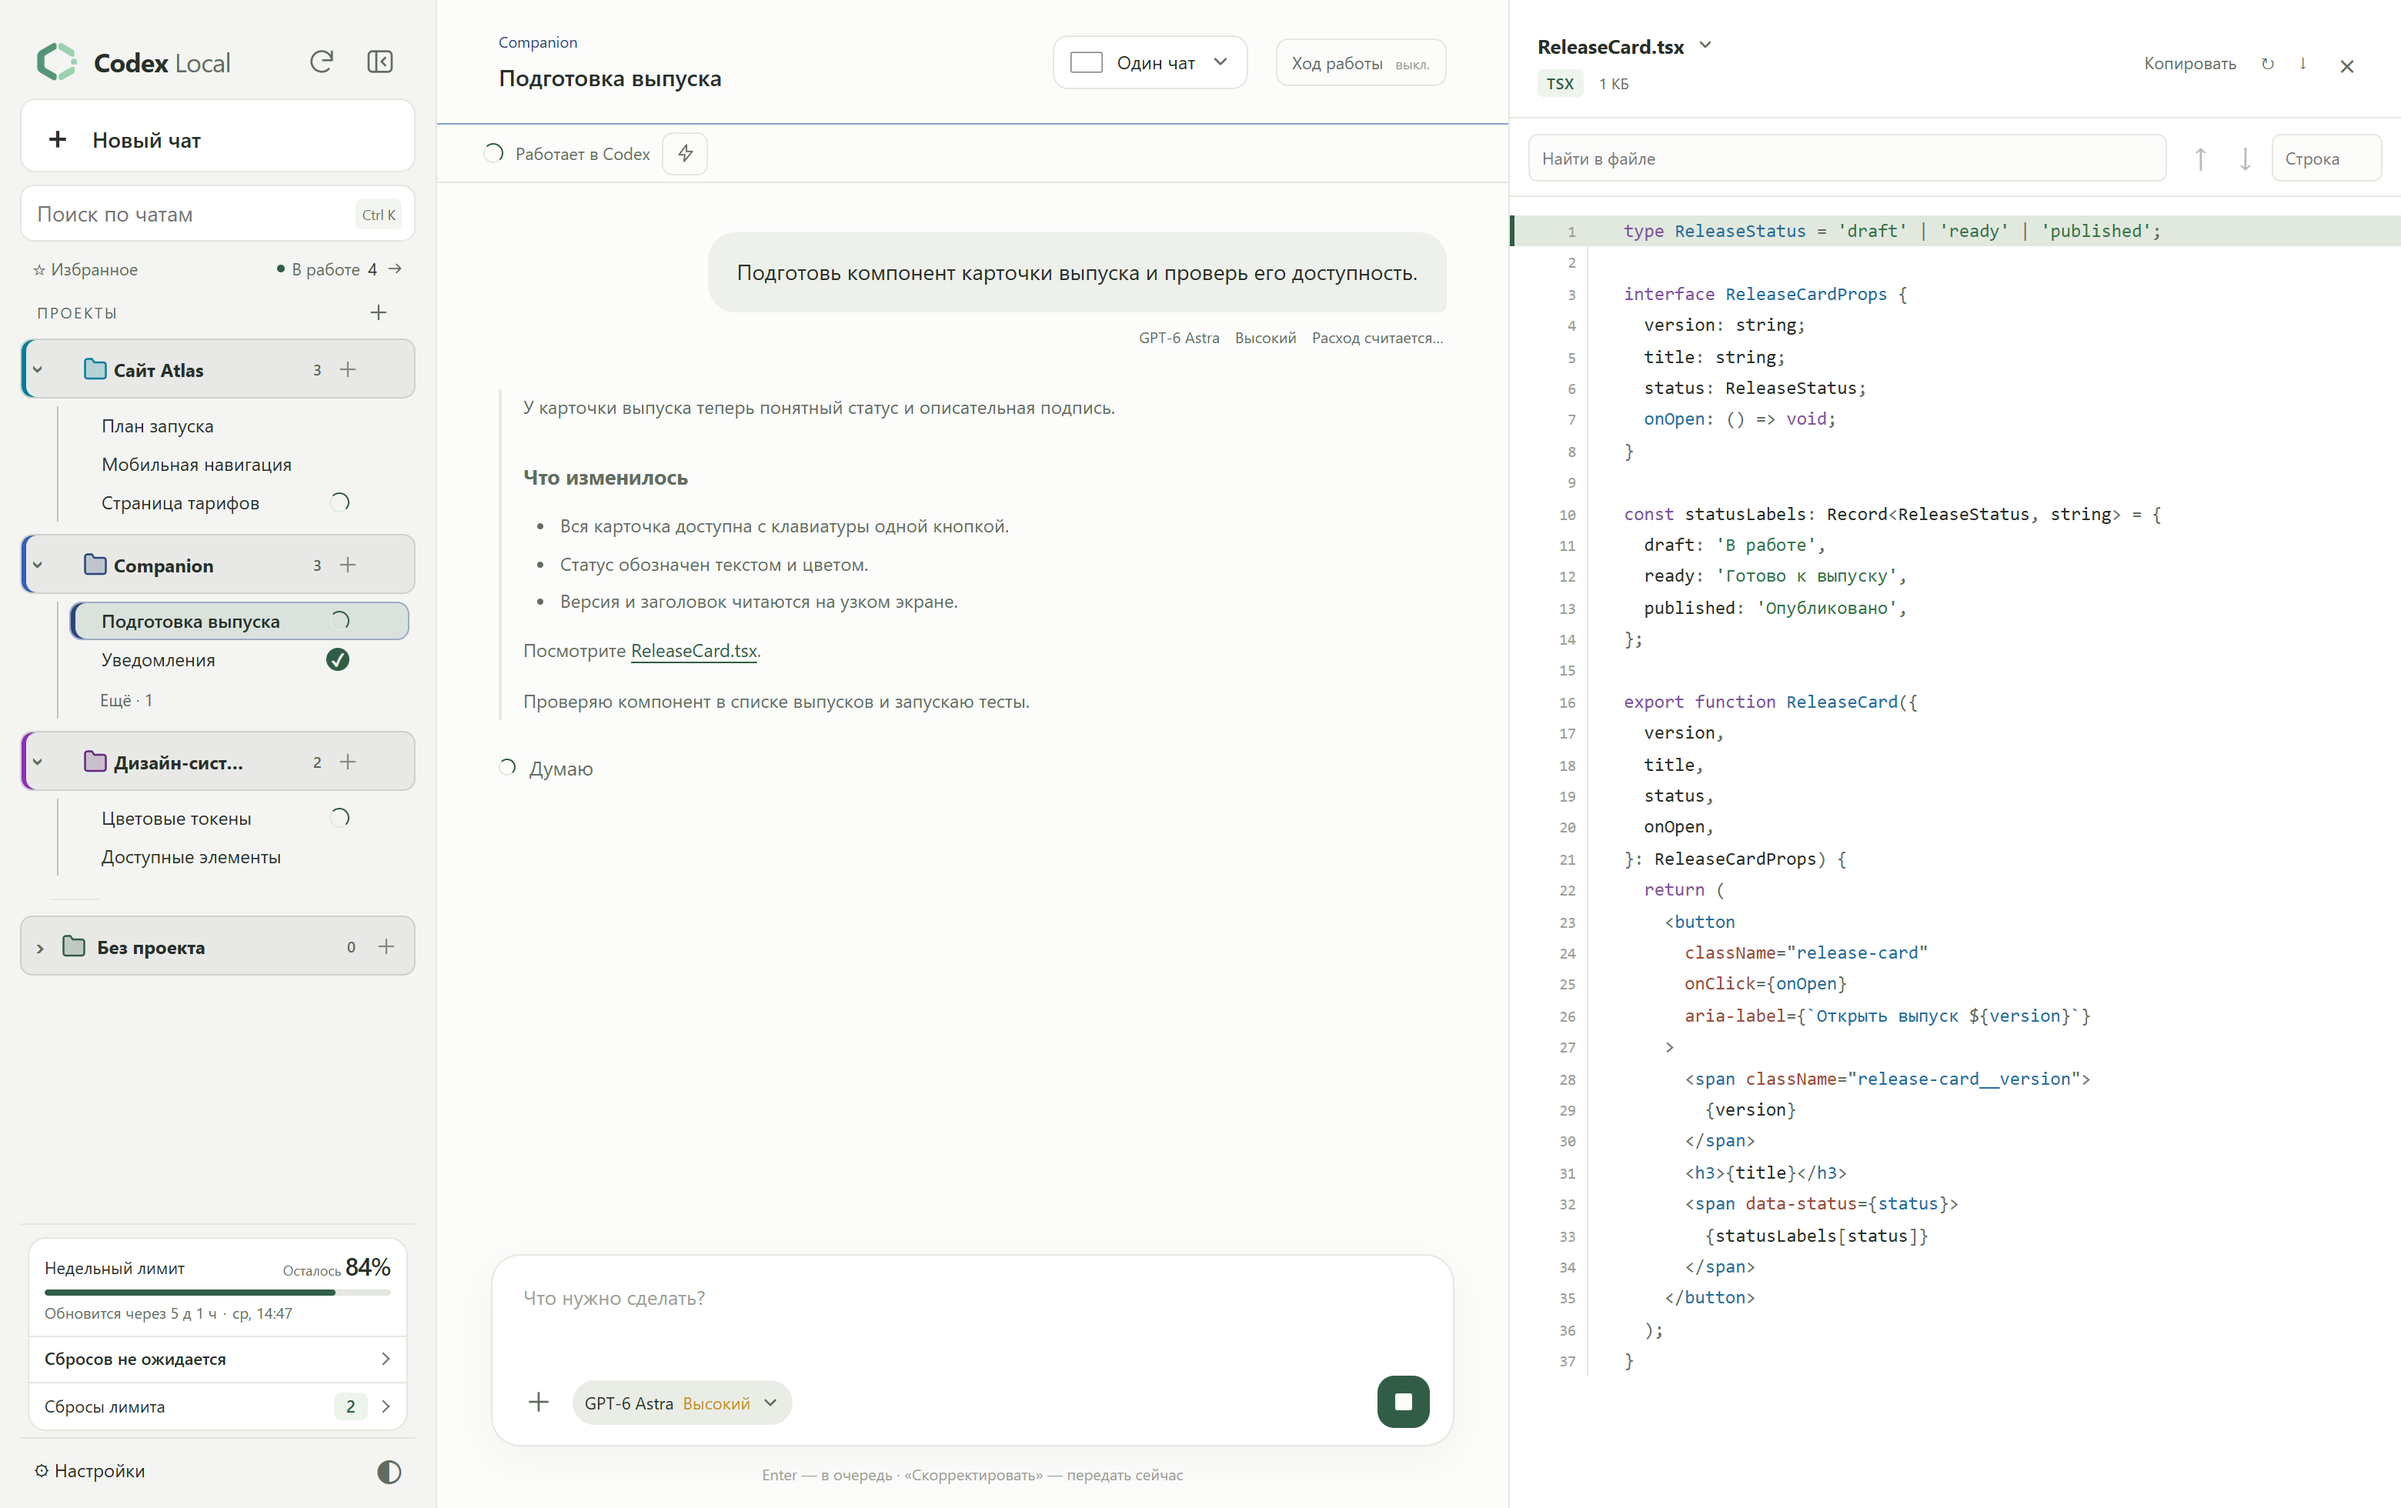
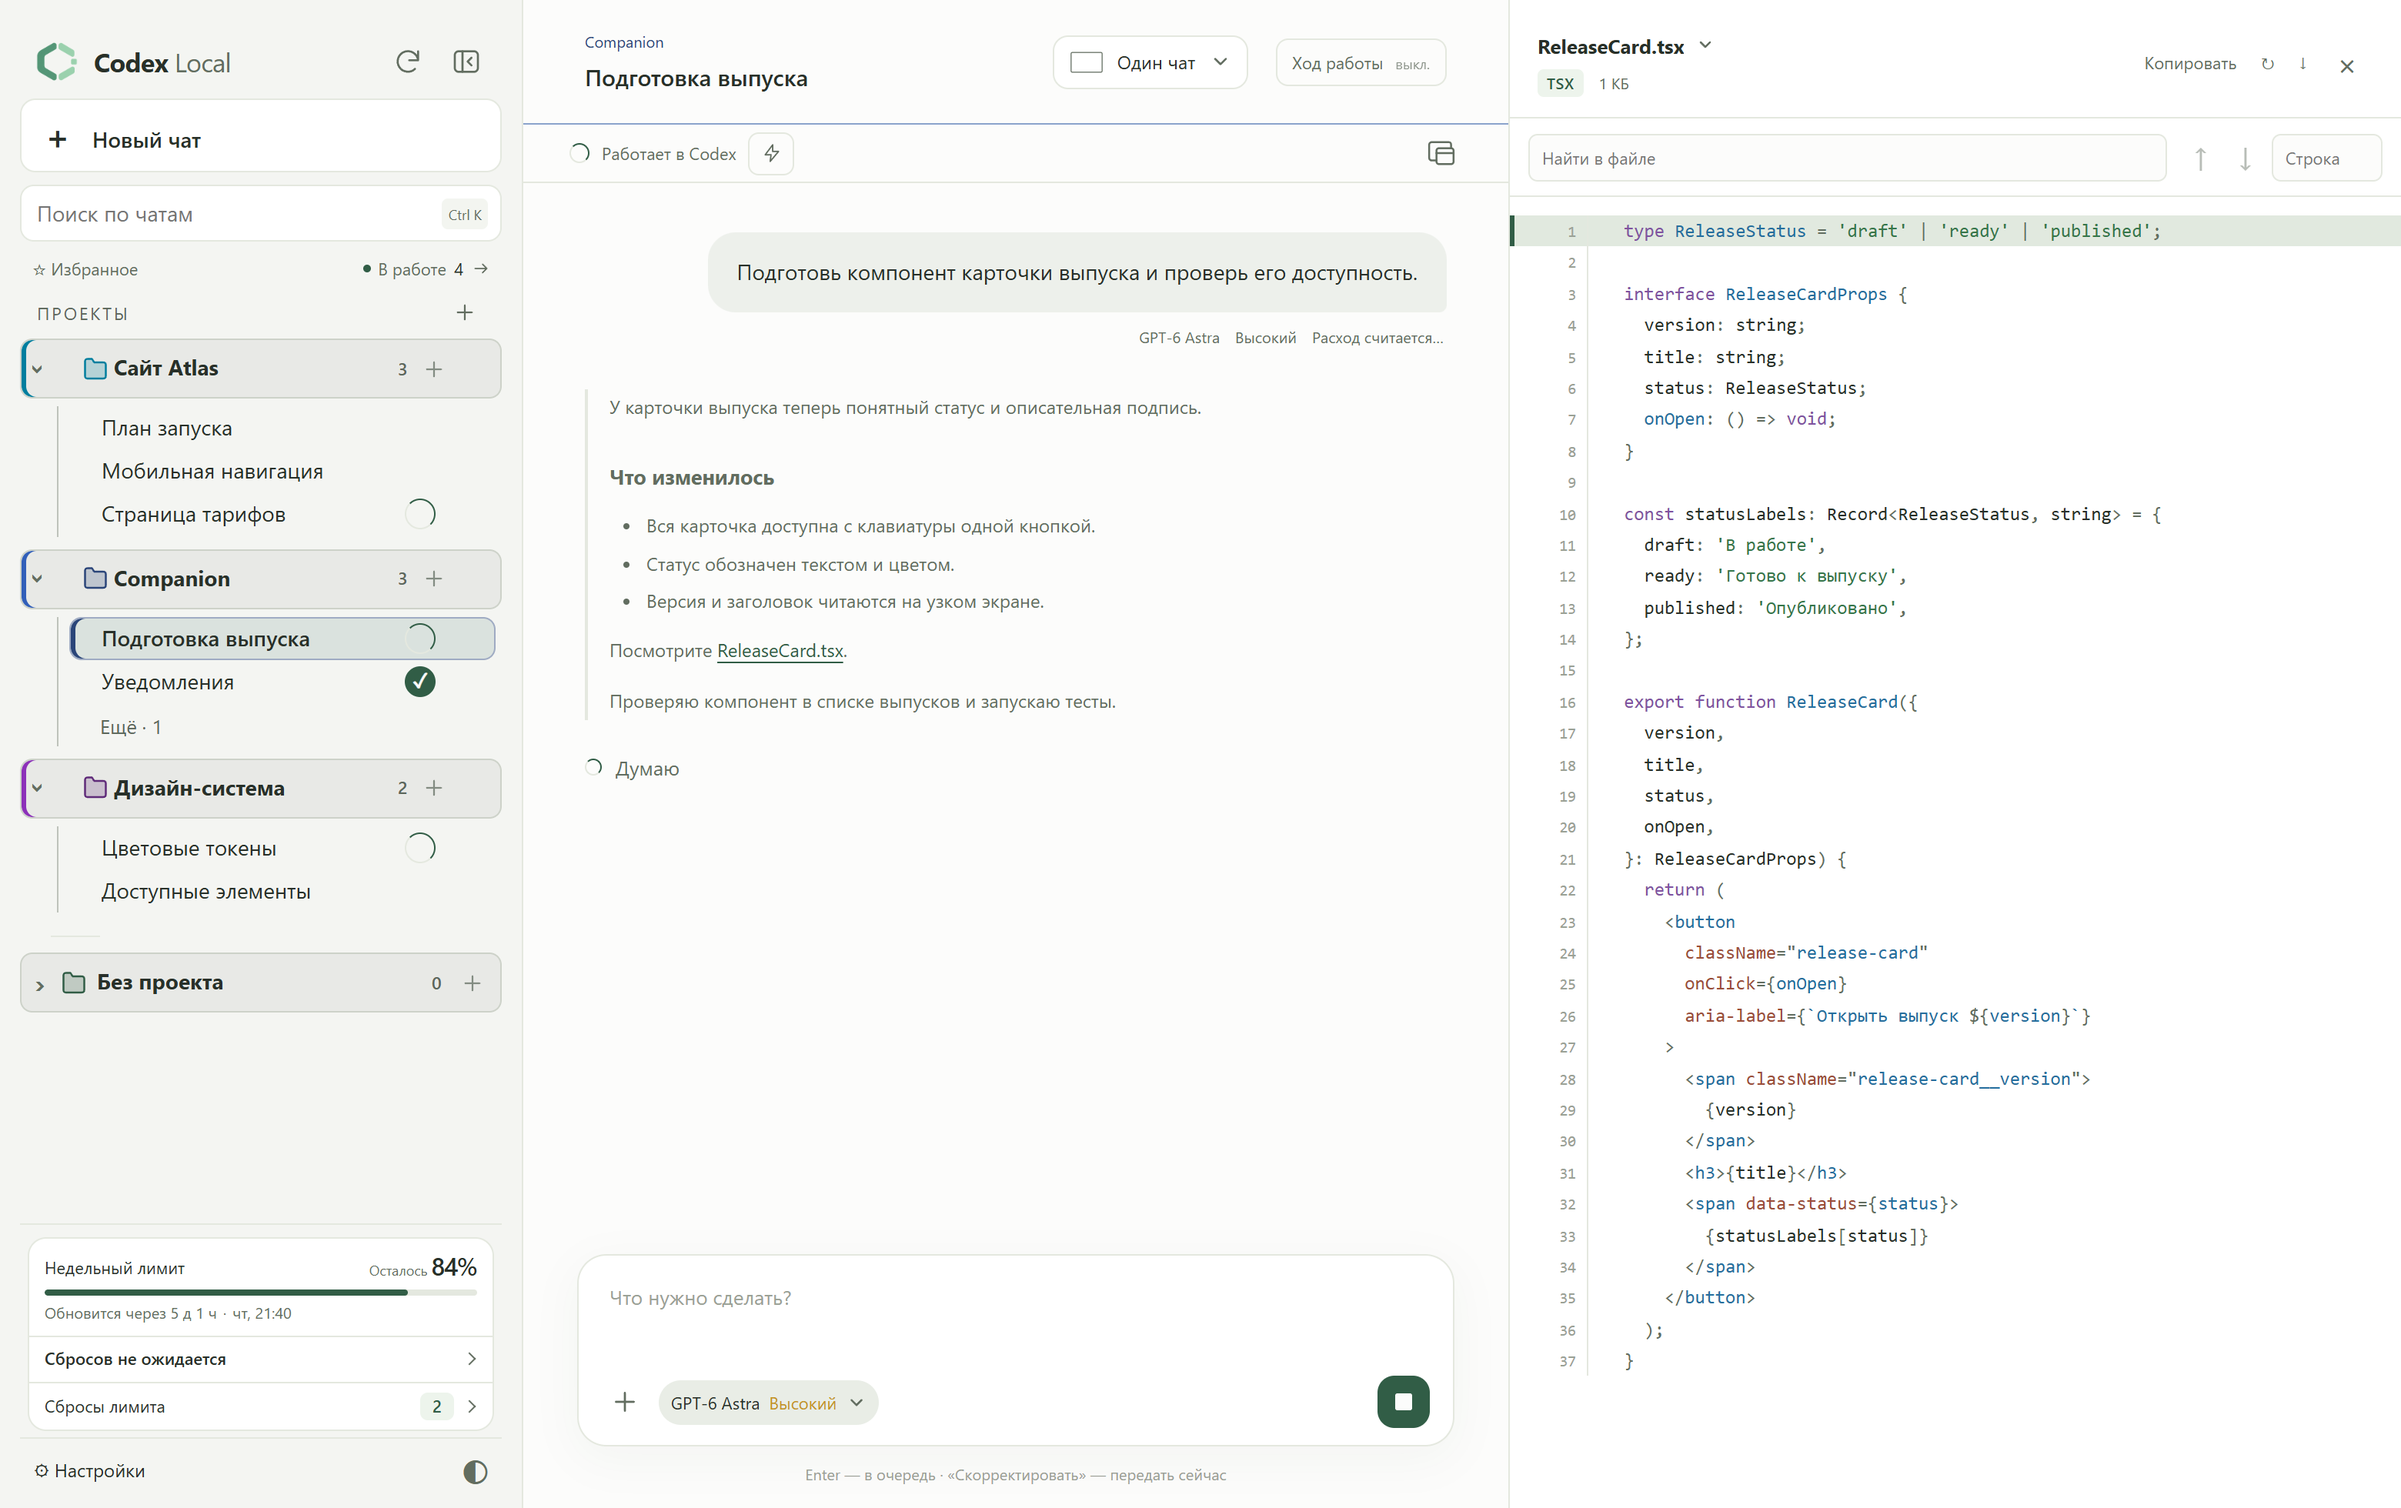
Document formatted overlay and selected 14px sidebar in 0.8.39 [skip ci]

diff --git a/README.md b/README.md
@@ -3,7 +3,7 @@
   <h1>Codex Local</h1>
   <p>Your Codex — on your PC, in a browser and on your phone.</p>
   <p><strong>Windows x64 · local panel · web access and PWA</strong></p>
-  <p><a href="https://github.com/DenisG1302/codex-local/releases/latest"><strong>Download installer</strong></a> · <a href="https://github.com/DenisG1302/codex-local/releases">Release notes</a> · <a href="README.ru.md">Русский</a></p>
+  <p><a href="https://github.com/DenisG1302/codex-local/releases/latest"><strong>Download installer</strong></a> · <a href="https://github.com/DenisG1302/codex-local/releases">Release notes</a> · <a href="README.md">Русский</a></p>
 </div>
 
 ---
@@ -14,9 +14,9 @@ This repository contains **installers and documentation**. Application source co
 
 ![Codex Local desktop workspace with projects, a launch checklist and usage limits](assets/screenshots/en/workspace-light.png)
 
-<p align="center"><sub>Codex Local 0.8.38 · Actual interface with demo projects and conversations.</sub></p>
+<p align="center"><sub>Codex Local 0.8.39 · Actual interface with demo projects and conversations.</sub></p>
 
-Project and chat names, counts and headings in the sidebar use larger text on desktop and phones. On desktop, drag the sidebar’s right edge to adjust its width.
+Project and chat names in the sidebar use 14 px text on desktop and phones. Counts and headings use the same scale. On desktop, drag the sidebar’s right edge to adjust its width.
 
 ## Features
 
@@ -46,6 +46,8 @@ Open the window with the icon on the right of a running chat’s status and spee
 The header shows the project name; the window shows the full latest progress message and a short status with a spinner: Thinking, Working on the task or Optimizing conversation. New fragments appear smoothly, with the blinking caret at the end of the text. Commands and their output are hidden. When a task finishes, it displays **Work finished**; the **Open chat** icon beside Close is always available.
 
 In **Settings → Always-on-top window**, choose text and window styles from visual cards. **Test overlay** opens a real window using your draft size and appearance; **Default** restores the width and height to 400 × 260. Font size can be set from 10 to 32 px. Long text can scroll manually, scroll automatically from top to bottom in a loop, or grow the window within the screen. It grows smoothly as lines appear and keeps its bottom edge fixed as the height changes. The scrollbar appears only after reaching the screen limit; changing the default size remeasures existing text. Hover pauses automatic scrolling for manual reading; moving away resumes it. The color picker appears directly inside the Custom color card. Set the theme color, position, opacity and automatic opening there too. Disabling the feature hides the chat button and detailed settings. Supported browsers offer manual opening with Picture-in-Picture.
+
+Emphasis, lists, code and links render with Markdown formatting. Question dialogs and option descriptions also support links; opening one does not submit an answer. Desktop notifications are suppressed while the working overlay is visible. Phone notifications follow their existing rules.
 
 | Progress window | Compact settings |
 | --- | --- |
